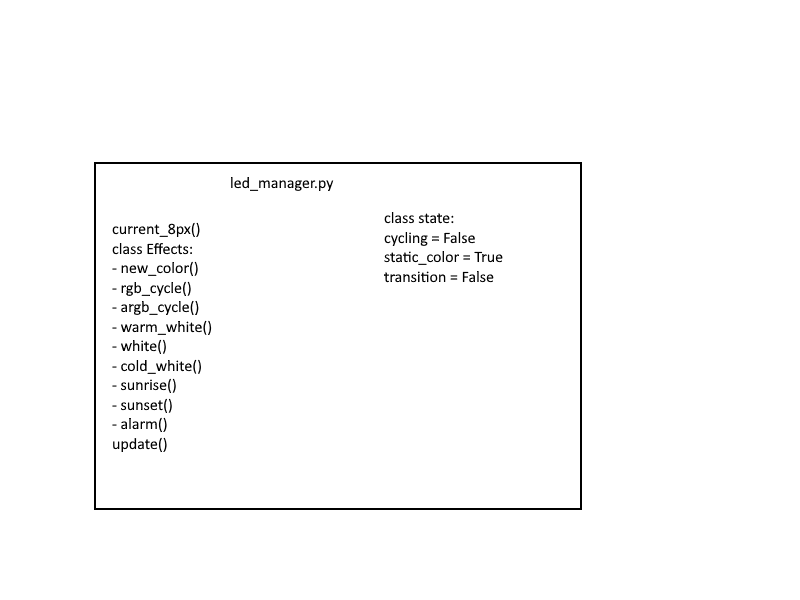
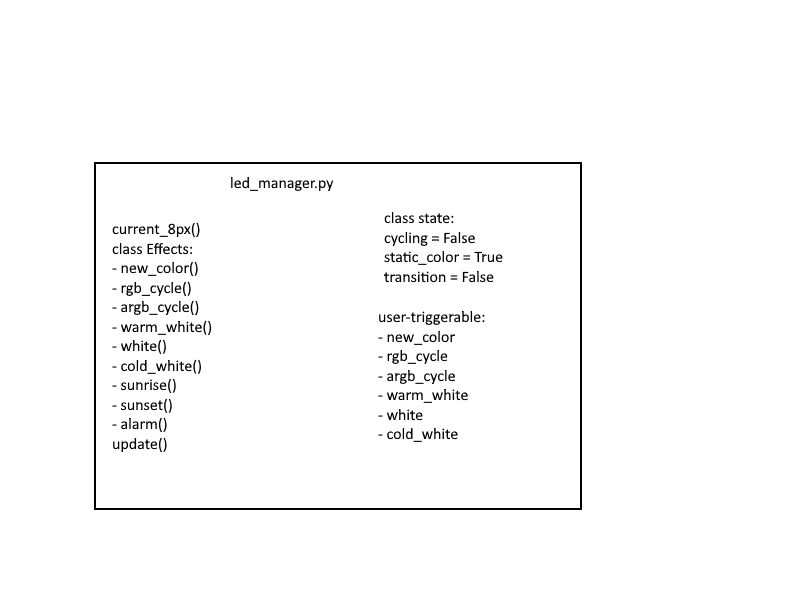
added generate array function to led_manager, added alarm-cycle effect

Changed region(s): [[0.4688, 0.51, 0.625, 0.75]]

diff --git a/led_manager.py b/led_manager.py
@@ -5,37 +5,129 @@ import Adafruit_WS2801 # type: ignore
 import time
 
 class ledState:
-    cycling = False
+    #cycling = False
     static = True
     transitioning = False
     
-    current_action = 0
-
-    NONE = -1
-    NEW_COLOR = 0
+    current = 0
+    target = 0
+    action = 0
+    
+    # States
+    STATIC_COLOR = 0
     RGB_CYCLE = 1
     ARGB_CYCLE = 2
-    WARM_WHITE = 3
-    WHITE = 4
-    COLD_WHITE = 5
-    SUNRISE = 6
-    SUNSET = 7
-    ALARM = 8
-
-
+    SUNRISE = 3
+    SUNSET = 4
+    ALARM = 5
+    
+    # Actions
+    Nothing = -1
+    Fade_Cx_Cy = 0
+    Fade_Cx_Rgb = 1
+    Fade_Cx_Argb = 2
+    Rgb_Cycle = 3
+    Argb_Cycle = 4
+    Sunrise = 5
+    Sunset = 6
+    Alarm = 7
+    
 class Effects:
     arr = []
+    current_static_color_rgb = (0, 0, 0)
     
     def __init__(self) -> None:
         pass
     
-    def current_8px_rgb(self):
+    def _generate_8px_rgb(self, array):
         line = [[0, 0, 0] for _ in range(8)]
         for i in range(8):
             led = int(i * (led_stripe.PIXEL_COUNT / 8))
-            if self.arr[led] is not None:
-                line[i] = Adafruit_WS2801.color_to_RGB(self.arr[led])
+            if array[led] is not None:
+                line[i] = Adafruit_WS2801.color_to_RGB(array[led])
         return line
+    def current_8px_rgb(self):
+        return self._generate_8px_rgb(self.arr)
     
-    def update(self):
+    def preview_effect_8px(self):
+        pass
+    
+    def set_effect(self, effect:int):
+        pass
+    
+    def _generate_array(self, t, target_color=None, start_color=current_static_color_rgb):
+        arr = []
+        if ledState.current != ledState.target:
+            if ledState.target == ledState.STATIC_COLOR:
+                if ledState.current == ledState.STATIC_COLOR:
+                    arr = [led_stripe.fade_cx_cy(i, start_color, target_color, t) for i in range(led_stripe.PIXEL_COUNT)]
+                elif ledState.current == ledState.RGB_CYCLE:
+                    if target_color == (0, 0, 0):
+                        arr = [led_stripe.fade_black_rgb(i, -t + 1) for i in range(led_stripe.PIXEL_COUNT)]
+                    else:
+                        arr = [led_stripe.fade_cx_rgb(i, led_stripe.get_pixel_rgb(i), -t + 2) for i in range(led_stripe.PIXEL_COUNT)]
+                elif ledState.current == ledState.ARGB_CYCLE:
+                    arr = [led_stripe.fade_cx_argb(i, start_color, -t + 2) for i in range(led_stripe.PIXEL_COUNT)]
+            elif ledState.target == ledState.RGB_CYCLE:
+                if ledState.current == ledState.STATIC_COLOR:
+                    arr = [led_stripe.fade_cx_rgb(i, start_color, t) for i in range(led_stripe.PIXEL_COUNT)] 
+                elif ledState.current == ledState.ARGB_CYCLE:
+                    if t < 1:
+                        arr = [led_stripe.fade_black_argb(i, -t + 1) for i in range(led_stripe.PIXEL_COUNT)]
+                    else:
+                        arr = [led_stripe.fade_black_rgb(i, t - 1) for i in range(led_stripe.PIXEL_COUNT)]
+            elif ledState.target == ledState.ARGB_CYCLE:
+                if ledState.current == ledState.STATIC_COLOR:
+                    arr = [led_stripe.fade_cx_argb(i, start_color, t) for i in range(led_stripe.PIXEL_COUNT)] 
+                elif ledState.current == ledState.RGB_CYCLE:
+                    if t < 1:
+                        arr = [led_stripe.fade_black_rgb(i, -t + 1) for i in range(led_stripe.PIXEL_COUNT)]
+                    else:
+                        arr = [led_stripe.fade_black_argb(i, t - 1) for i in range(led_stripe.PIXEL_COUNT)]
+        else:
+            if ledState.current == ledState.RGB_CYCLE:
+                arr = [led_stripe.rgb_cycle(i, t) for i in range(led_stripe.PIXEL_COUNT)]
+            elif ledState.current == ledState.ARGB_CYCLE:
+                arr = [led_stripe.argb_cycle(i, t) for i in range(led_stripe.PIXEL_COUNT)]
+            elif ledState.current == ledState.SUNRISE:
+                arr = [led_stripe.sunrise(i, t) for i in range(led_stripe.PIXEL_COUNT)]
+            elif ledState.current == ledState.SUNSET:
+                arr = [led_stripe.sunrise(i, -t + 30) for i in range(led_stripe.PIXEL_COUNT)]
+            elif ledState.current == ledState.ALARM:
+                arr = [led_stripe.alarm_cycle(i, t) for i in range(led_stripe.PIXEL_COUNT)]
+        led_stripe.set_array_color(arr)
+
+
+class LED_Stripe:
+    def __init__(self) -> None:
+        pass
+    
+    def new_color(self, rgb):
+        pass
+    
+    def rgb_cycle(self):
+        pass
+    
+    def argb_cycle(self):
+        pass
+    
+    def warm_white(self):
+        pass
+    
+    def white(self):
+        pass
+    
+    def cold_white(self):
+        pass
+    
+    def sunrise(self):
+        pass
+    
+    def sunset(self):
+        pass
+    
+    def alarm(self):
+        pass
+    
+    def update(self, t):
         pass

diff --git a/helpers/led_stripe.py b/helpers/led_stripe.py
@@ -49,6 +49,9 @@ def set_pixel_color(i, color):
     pixels.set_pixel(i, color)
     pixels.show()
 
+def get_pixel_rgb(i):
+    return pixels.get_pixel_rgb(i)
+
 def set_array(arr):
     for i in range(min(PIXEL_COUNT, len(arr))):
         pixels.set_pixel(i, Adafruit_WS2801.RGB_to_color( arr[i][0], arr[i][1], arr[i][2] ))
@@ -184,7 +187,7 @@ def sunrise(x, time):
 
     Args:
         x (int): The position of the pixel.
-        time (float btwn 0 and 30): The time to interpolate over.
+        time: The time to interpolate over.
 
     Returns:
         color: Int Formatted color
@@ -195,9 +198,38 @@ def sunrise(x, time):
         return fade_cx_cy(x, (150, 15, 0), (255, 90, 0), (time - 6) / 6)
     elif time < 24 and time > 12:
         return fade_cx_cy(x, (255, 90, 0), (255, 255, 128), (time - 12) / 12)
-    elif time < 30 and time > 24:
+    else:
         return fade_cx_cy(x, (255, 255, 128), (255, 255, 255), (time - 24) / 6)
 
+def alarm_cycle(x, time):
+    """
+    Alarm blinking pattern to wake someone up.
+
+    Args:
+        x (int): The position of the pixel.
+        time: The time to interpolate over.
+
+    Returns:
+        color: Int Formatted color
+    """
+    time = time % 4
+    if time < .5:
+        return Adafruit_WS2801.RGB_to_color(255, 255, 255)
+    elif time < 1 and time > .5:
+        return Adafruit_WS2801.RGB_to_color(0, 0, 0)
+    elif time < 1.5 and time > 1:
+        return Adafruit_WS2801.RGB_to_color(255, 0, 0)
+    elif time < 2 and time > 1.5:
+        return Adafruit_WS2801.RGB_to_color(0, 0, 0)
+    elif time < 2.5 and time > 2:
+        return Adafruit_WS2801.RGB_to_color(0, 255, 0)
+    elif time < 3 and time > 2.5:
+        return Adafruit_WS2801.RGB_to_color(0, 0, 0)
+    elif time < 3.5 and time > 3:
+        return Adafruit_WS2801.RGB_to_color(0, 0, 255)
+    else:
+        return Adafruit_WS2801.RGB_to_color(0, 0, 0)
+    
 if __name__ == '__main__':
     set_all((0, 0, 0))
     time.sleep(1)
@@ -224,6 +256,7 @@ if __name__ == '__main__':
             set_array_color(arr)
         time.sleep(0.01)
     """
+    """
     while time.time() - t < 60:
         if time.time() - t < 30:
             arr = [sunrise(i, time.time() - t) for i in range(PIXEL_COUNT)]
@@ -232,3 +265,9 @@ if __name__ == '__main__':
             arr = [sunrise(i, - (time.time() - t - 30) + 30) for i in range(PIXEL_COUNT)]
             set_array_color(arr)
         time.sleep(0.01)
+    """
+    while time.time() - t < 10:
+        arr = [alarm_cycle(i, time.time() - t) for i in range(PIXEL_COUNT)]
+        set_array_color(arr)
+        time.sleep(0.1)
+    set_all((0, 0, 0))
